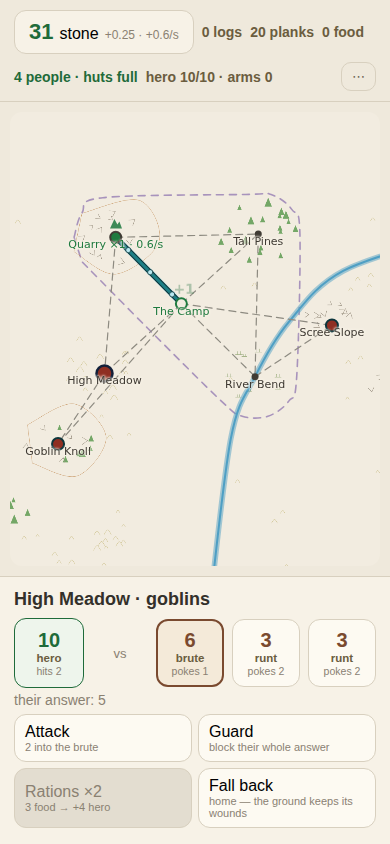
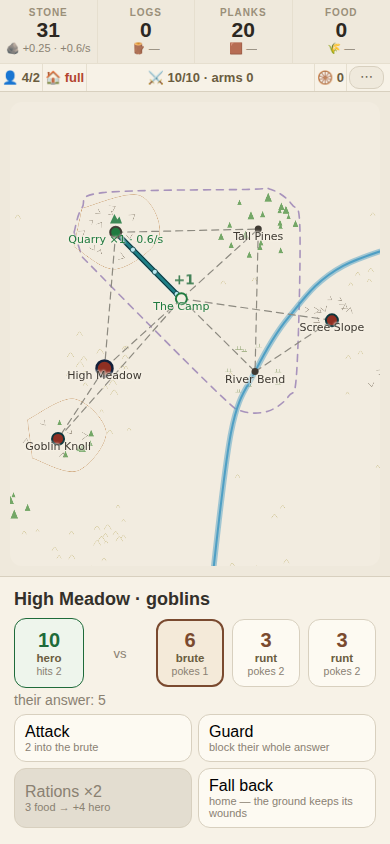
THE HUD: four goods, four standings, and cells the probe can address
Built to the owner's design mock. The header was one wrapped run-on line -
'60 stone 12 logs 45 planks 54 food 11 people huts full hero 10/10 arms 1'
- with every quantity at the same weight and no alignment, so nothing
could be found at a glance.

Now four goods across the top, each a label, a value, an icon and a rate,
and four standings under them: people, huts, hero, carts. The stone
column is the tap, which is a whole column of thumb instead of a chip.

THREE STATES HAD TO SURVIVE THE RESTYLE, all earned this week, and a HUD
that looks better while hiding them would be worse: a full store, a
STARVING town, and the tap rate on stone. All three are pinned by checks.

EVERY CELL CARRIES data-q AND THAT IS WHAT THE PROBE READS. The old
checks regexed the whole header for '2/2 people' and '6 people, huts
full', so each was coupled to the order and punctuation of a run-on line.
Rewriting them found that one could not see the population cap at all:
the captives walk home into a camp with room for TWO, not six, which the
old string hid behind the words 'huts full'.

TWO DEFECTS THE SCREENSHOTS CAUGHT, in order:
  the gear button was pinned to the top corner and sat on the FOOD
  column, clipping its label to 'FOO' - it is a trailing auto column in
  the standings row now, which cannot overlap anything;
  four equal standings columns clipped the hero's arms count to 'arms'
  with nothing after it - they are uneven by nature, so the short ones
[…]

diff --git a/src/ui/Camp.svelte b/src/ui/Camp.svelte
@@ -450,27 +450,63 @@
 
 <main>
   <header>
-    <!-- ★ A FULL STORE IS SAID ON THE CHIP ITSELF. Waste the player cannot
-         see is the choke bug all over again in a different currency. -->
-    <button class="spring" class:brim={brim(game.stone)}
-      onclick={() => act({ type: 'tap' })}>
-      <b>{Math.floor(game.stone)}</b><span>stone</span>
-      <em>{brim(game.stone) ? `full of ${roomOf(game)}`
-        : `+${TAP_STONE}${f.stone > 0 ? ` · +${f.stone.toFixed(1)}/s` : ''}`}</em>
-    </button>
-    <span class="keep" class:hurt={brim(game.logs)}>{Math.floor(game.logs)} logs{
-      brim(game.logs) ? ' · full' : ''}</span>
-    <span class="keep" class:hurt={brim(game.planks)}>{Math.floor(game.planks)} planks{
-      brim(game.planks) ? ' · full' : planksNow > 0 ? ` +${planksNow.toFixed(1)}/s` : ''}</span>
-    <span class="keep" class:hurt={f.starving || brim(game.food)}>{Math.floor(game.food)} food{
-      f.starving ? ' · STARVING' : brim(game.food) ? ' · full'
-      : hunger(game) > 0 ? ` −${hunger(game).toFixed(1)}/s` : ''}{
-      f.food > 0 && !brim(game.food) ? ` +${f.food.toFixed(1)}/s` : ''}</span>
-    <span class="keep lv">{game.pop > cap
-      ? `${Math.floor(game.pop)} people · huts full`
-      : `${Math.floor(game.pop)}/${cap} people`}</span>
-    <span class="keep">hero {game.hero.hp}/{heroMax(game)} · arms {game.hero.arms}</span>
-    <button class="reset gear" onclick={() => (menu = !menu)}>{menu ? 'Close' : '⋯'}</button>
+    <!-- ★★ THE HUD, 2026-08-09, built to the owner's design mock. It replaces a
+         wrapped run-on line ("60 stone 12 logs 45 planks 54 food 11 people ·
+         huts full hero 10/10 · arms 1") that had every quantity at the same
+         weight and no alignment, so nothing could be found at a glance.
+
+         Four goods across the top, four standings under them. Each cell
+         carries `data-q`, which is what the probe reads — a targeted cell
+         beats a regex over the whole header, and the old checks were
+         regexing a soup.
+
+         ⚠ THE THREE STATES THAT MUST SURVIVE ANY RESTYLE, all of them
+         earned this week: a FULL store (the stock stops climbing), a
+         STARVING town (every works but the farms halts), and the tap rate
+         on stone. A HUD that looks better and hides those is worse. -->
+    <div class="hud">
+      <button class="cell tap" class:brim={brim(game.stone)}
+        data-q="stone" onclick={() => act({ type: 'tap' })}>
+        <span class="cap">STONE</span>
+        <b>{Math.floor(game.stone)}</b>
+        <em>🪨 {brim(game.stone) ? `full of ${roomOf(game)}`
+          : `+${TAP_STONE}${f.stone > 0 ? ` · +${f.stone.toFixed(1)}/s` : ''}`}</em>
+      </button>
+      <div class="cell" class:brim={brim(game.logs)} data-q="logs">
+        <span class="cap">LOGS</span>
+        <b>{Math.floor(game.logs)}</b>
+        <em>🪵 {brim(game.logs) ? 'full'
+          : f.logsIn > 0 ? `+${f.logsIn.toFixed(1)}/s` : '—'}</em>
+      </div>
+      <div class="cell" class:brim={brim(game.planks)} data-q="planks">
+        <span class="cap">PLANKS</span>
+        <b>{Math.floor(game.planks)}</b>
+        <em>🟫 {brim(game.planks) ? 'full'
+          : planksNow > 0 ? `+${planksNow.toFixed(1)}/s` : '—'}</em>
+      </div>
+      <div class="cell" class:hurt={f.starving} class:brim={brim(game.food) && !f.starving}
+        data-q="food">
+        <span class="cap">FOOD</span>
+        <b>{Math.floor(game.food)}</b>
+        <em>🌾 {f.starving ? 'STARVING' : brim(game.food) ? 'full'
+          : `${hunger(game) > 0 ? `−${hunger(game).toFixed(1)}/s` : ''}${
+            f.food > 0 ? ` +${f.food.toFixed(1)}/s` : ''}`.trim() || '—'}</em>
+      </div>
+    </div>
+    <div class="hud standings">
+      <span class="cell" class:lv={game.pop < cap} data-q="people"
+        aria-label="people">👤 {Math.floor(game.pop)}/{cap}</span>
+      <span class="cell" class:brim={game.pop >= cap} data-q="huts"
+        aria-label="huts">🏠 {game.pop >= cap ? 'full' : `×${game.stacks[0] ?? 0}`}</span>
+      <span class="cell" class:hurt={game.hero.hp < heroMax(game) / 3} data-q="hero"
+        aria-label="hero">⚔ {game.hero.hp}/{heroMax(game)} · arms {game.hero.arms}</span>
+      <span class="cell" data-q="carts" aria-label="carts">🛞 {game.carts}</span>
+      <!-- ⚠ THE GEAR LIVES IN THIS ROW, not pinned over the top corner. It
+           was absolute, and it sat on the FOOD column and clipped its label
+           to "FOO" — caught in the first screenshot. A trailing `auto`
+           column cannot overlap anything. -->
+      <button class="reset gear" onclick={() => (menu = !menu)}>{menu ? 'Close' : '⋯'}</button>
+    </div>
     {#if menu}
     <div class="menurow">
       <button class="reset" class:armed={wiping}
@@ -594,26 +630,63 @@
     main { border-inline: 1px solid #d8d0bf; box-shadow: 0 0 42px #0002; }
     :global(body) { background: #e3dccb; }
   }
-  header { display: flex; align-items: center; gap: 8px; flex-wrap: wrap;
-    padding: 10px 14px; border-bottom: 1px solid #d8d0bf; }
-  .spring { display: flex; align-items: baseline; gap: 6px; border: 1px solid #d8d0bf;
-    border-radius: 12px; padding: 8px 14px; background: #f7f2e7; font: inherit; }
-  .spring b { font-size: 22px; color: #1f6b3a; }
-  .spring em { font-style: normal; font-size: 12px; color: #8a8172; }
+  header { display: flex; flex-direction: column; gap: 0;
+    border-bottom: 1px solid #d8d0bf; position: relative; }
+
+  /* ★ FOUR EQUAL COLUMNS. `minmax(0, 1fr)` and not `1fr`: a long rate line
+     ("−0.9/s +1.2/s") would otherwise push its column wider than its share
+     and knock the other three out of alignment, which is the exact thing
+     this HUD replaced. */
+  .hud { display: grid; grid-template-columns: repeat(4, minmax(0, 1fr));
+    align-items: stretch; }
+  .hud .cell { display: flex; flex-direction: column; align-items: center;
+    gap: 1px; padding: 7px 2px 8px; border: 0; border-right: 1px solid #e6dfcf;
+    background: none; font: inherit; text-align: center; min-width: 0; }
+  .hud .cell:last-child { border-right: 0; }
+  .cap { font-size: 10px; letter-spacing: .09em; color: #9a8f79; font-weight: 700; }
+  .hud .cell b { font-size: 21px; line-height: 1.05; color: #2c2822; font-weight: 700; }
+  .hud .cell em { font-style: normal; font-size: 11px; color: #8a8172;
+    white-space: nowrap; overflow: hidden; text-overflow: ellipsis; max-width: 100%; }
+
+  /* The tap target is the whole stone column, which is a far bigger thumb
+     mark than the old chip — and it is the one thing here you can press. */
+  .hud .cell.tap { cursor: pointer; -webkit-tap-highlight-color: transparent; }
+  .hud .cell.tap:active { background: #efe8d9; }
+
+  /* A stock that has stopped climbing, and a town that has stopped eating. */
+  .hud .cell.brim b, .hud .cell.brim em { color: #b3452f; }
+  .hud .cell.hurt b, .hud .cell.hurt em { color: #b3452f; font-weight: 700; }
+
+  .standings { border-top: 1px solid #e6dfcf; background: #f7f2e7;
+    /* ⚠ NOT FOUR EQUAL COLUMNS like the row above. The standings are wildly
+       uneven in length — "🛞 3" against "⚔ 8/10 · arms 1" — and equal shares
+       clipped the hero's arms count to "arms" with nothing after it. The
+       short ones take what they need; the hero takes the slack. */
+    grid-template-columns: auto auto minmax(0, 1fr) auto auto; }
+  .standings .cell { padding-left: 8px; padding-right: 8px; }
+  .standings .cell { flex-direction: row; justify-content: center; gap: 4px;
+    padding: 6px 2px; font-size: 13px; color: #6b5d3f; font-weight: 600;
+    white-space: nowrap; overflow: hidden; }
+  .standings .cell.lv { color: #1f6b3a; }
+  .standings .cell.brim { color: #b3452f; }
+  .standings .cell.hurt { color: #b3452f; }
+
   .keep { font-size: 14px; color: #6b5d3f; font-weight: 600; }
-  .keep.lv { color: #1f6b3a; }
-  .keep.hurt { color: #b3452f; }
-  .spring.brim { border-color: #b3452f; background: #f7e9e5; }
-  .spring.brim b { color: #b3452f; }
   .keep.build { color: #b0a892; font-weight: 400; font-size: 12px; }
   .reset { font: inherit; font-size: 13px; border: 1px solid #d8d0bf;
     border-radius: 10px; padding: 6px 10px; background: #efe9dc; color: #6b6353; }
-  .reset.gear { margin-left: auto; }
+  /* ⚠ ABSOLUTE NOW: the header is a COLUMN since the HUD went in, so
+     `margin-left:auto` no longer pushes it anywhere — it would sit as its own
+     full-width row under the standings. Pinned to the top corner instead,
+     clear of the four columns. */
+  .reset.gear { padding: 2px 10px; line-height: 1.3; align-self: center;
+    margin: 0 6px 0 2px; }
   .reset.armed { background: #b3452f; color: #fff; }
   .map { flex: 1; min-height: 0; position: relative; margin: 10px; }
   .panel { padding: 8px 14px 16px; border-top: 1px solid #d8d0bf; background: #f7f2e7;
     min-height: 148px; max-height: 44dvh; overflow-y: auto; }
-  .menurow { flex-basis: 100%; display: flex; gap: 8px; align-items: center; flex-wrap: wrap; }
+  .menurow { display: flex; gap: 8px; align-items: center; flex-wrap: wrap;
+    padding: 8px 14px; border-top: 1px solid #e6dfcf; }
   .panel h2 { margin: 4px 0 6px; font-size: 18px; }
   .note { color: #8a8172; font-size: 14px; margin: 4px 0; }
   .deed { display: block; width: 100%; text-align: left; font: inherit; font-size: 16px;

diff --git a/docs/DECISIONS.md b/docs/DECISIONS.md
@@ -1855,3 +1855,4 @@ Entries above this line are long because the one-line rule did not exist yet.
 - 2026-08-08 — **THE HAND OBEYS THE CEILING** (coherence review: the tap obeys no gate the rest of the game obeys; the storehouse made it worse, since a full store could be tapped past its cap forever and the storehouse ladder was skippable by spamming). `tap` now goes through `stow`, the same helper the tick uses, so hand and carts cannot drift on what "full" means. ⚠ IT STILL IGNORES THE PATHS AND STARVING, ON PURPOSE, both pinned by tests: `initial()` has no paths or works so the hand is the only source of the first 5 stone (route it and the game cannot start), and an empty larder halts every works but the farms so a farmless town needs the hand to earn the 12 stone for a farm (gate it and the save can never recover). Sabotage B — making the tap obey starving — was run and failed exactly that test.
 - 2026-08-08 — **STARVING READS DELIVERY, NOT HARVEST** (coherence review's third finding). The test was `hunger(g) > farmRaw`, food standing in the FIELDS, so a farm with a choked path home counted as feeding the town — and the failure was silent: empty larder, no warning, no halt, every works flat out on rations that never arrived (sabotage header: `0 food −1.7/s +0.5/s`). Delivery is only known after routing and routing is what the halt changes, so `flow` now extracts the whole haulage into `deliver(made)` and runs it TWICE: once as the town runs normally to decide starvation from what actually got home, and again with non-farms zeroed if it is starving. The second run is the MECHANISM, not the penalty — halting the quarries frees the paths the food was stuck behind, so a town delivering 1.2/s against a 1.7/s appetite delivers 3.0/s once the works stop competing for the road. Returned `made` is the halted run's, so a halted quarry reads 0.0/s instead of pretending to work.
 - 2026-08-09 — **THE BARRIER** (owner, on a design mock: *"yeah in noobtown he's had a barrier"*). A dashed ward enclosing every stop with no goblins on it, `src/camp/barrier.ts`, pure geometry. It draws a fact the game already had rather than adding a quantity: liberating a holding pushes the line out (>10% area on the first, measured), which is the first time taking ground is visible from across the room. Hull over a ring of sample points per held stop, so one/two/nine stops need no special cases. ⚠ NOT THE MOCK'S TEAL — `route` is teal and the probe counts it, so a teal region would have corrupted the road-fill check; the ward is violet at 56 from its nearest counted ink, measured before picking. ⚠ AND NO FILL — a 7%-alpha wash tints the carrier dots the probe measures and fired "the carriers do not walk" on a good build; only running the probe caught it. The rest of the mock (HUD resource columns, status row, one primary action, bottom nav) is evaluated and unbuilt.
+- 2026-08-09 — **THE HUD REBUILT** to the owner's design mock: four goods across the top (STONE/LOGS/PLANKS/FOOD, label + value + icon + rate) and four standings under them (people/huts/hero/carts), replacing one wrapped run-on line with every quantity at equal weight. The stone column is the tap target — a whole column instead of a chip. Three states had to survive and are pinned: full store, STARVING, and the tap rate. Every cell carries `data-q` and the probe now reads CELLS instead of regexing the whole header — the old checks were coupled to the order and punctuation of the run-on line, and one could not see the population cap at all (the captives walk home into a camp with room for two, which the old string hid). Two defects caught by looking at the screenshots: the gear sat on the FOOD column and clipped its label to "FOO" (it is a trailing auto column in the standings row now), and four equal standings columns clipped the hero's arms count (uneven columns now, hero takes the slack). ⚠ ALSO FIXED A CHECK THIS DESTABILISED: "the carriers do not walk" measured the CENTROID of carrier ink against a 0.4px threshold, but dots entering and leaving a path cancel out so the centre moves only ~0.3px — it failed on good builds and passed on others, and the new header height perturbed it enough to fire twice. It measures the raw position sum now: 30–65% on a walking board, 0.000% frozen, three consecutive green runs.

diff --git a/docs/CITY.md b/docs/CITY.md
@@ -368,3 +368,50 @@ rounded shell — no special cases, and no polygon-insetting mitre maths.
   fired `the carriers do not walk` on a build where they walked fine. Only
   running the probe found it. A barrier is a line, which is what a barrier
   is.
+
+
+## ★★ THE HUD — rebuilt 2026-08-09 to the owner's mock
+
+It was one wrapped run-on line — `60 stone 12 logs 45 planks 54 food 11
+people · huts full hero 10/10 · arms 1` — with every quantity at the same
+weight and no alignment, so nothing could be found at a glance.
+
+Now **four goods across the top, four standings under them**:
+
+| | | | |
+|---|---|---|---|
+| STONE | LOGS | PLANKS | FOOD |
+| 👤 people | 🏠 huts | ⚔ hero | 🛞 carts |
+
+The stone column is the tap — a whole column of thumb instead of a chip.
+
+**Three states had to survive the restyle**, all earned this week, and a
+HUD that looks better while hiding them would be worse: a **full** store
+(the stock has stopped climbing), a **STARVING** town (every works but the
+farms has halted), and the tap rate on stone.
+
+⚠ **Every cell carries `data-q`, and that is what the probe reads.** The
+old checks regexed the whole header for `2/2 people` and `6 people · huts
+full`, so each was coupled to the order and punctuation of a run-on line —
+and one of them could not see the population cap at all (it turned out the
+captives walk home into a camp with room for **two**, not six).
+
+### Two defects the screenshots caught, in order
+
+1. The gear button was pinned to the top corner and **sat on the FOOD
+   column**, clipping its label to `FOO`. It lives in the standings row now,
+   as a trailing `auto` column that cannot overlap anything.
+2. The standings were four equal columns, which **clipped the hero's arms
+   count** — `⚔ 8/10 · arms` with nothing after it. They are uneven by
+   nature (`🛞 3` against `⚔ 8/10 · arms 1`), so the short ones take what
+   they need and the hero takes the slack.
+
+### ⚠ And a check this work destabilised, now fixed
+
+`the carriers do not walk` measured the **centroid** of carrier ink and
+wanted 0.4px of drift in 700ms. Carriers are spread along every path, so
+dots entering and leaving cancel out and the centre moves ~0.3px — it
+**failed on good builds and passed on others**. Changing the header's
+height perturbed it enough to fire twice. It now measures the raw sum of
+positions, where the same walk reads 30–65% against a 0.05% threshold, and
+0.000% when the animation is frozen. Three consecutive green runs.
